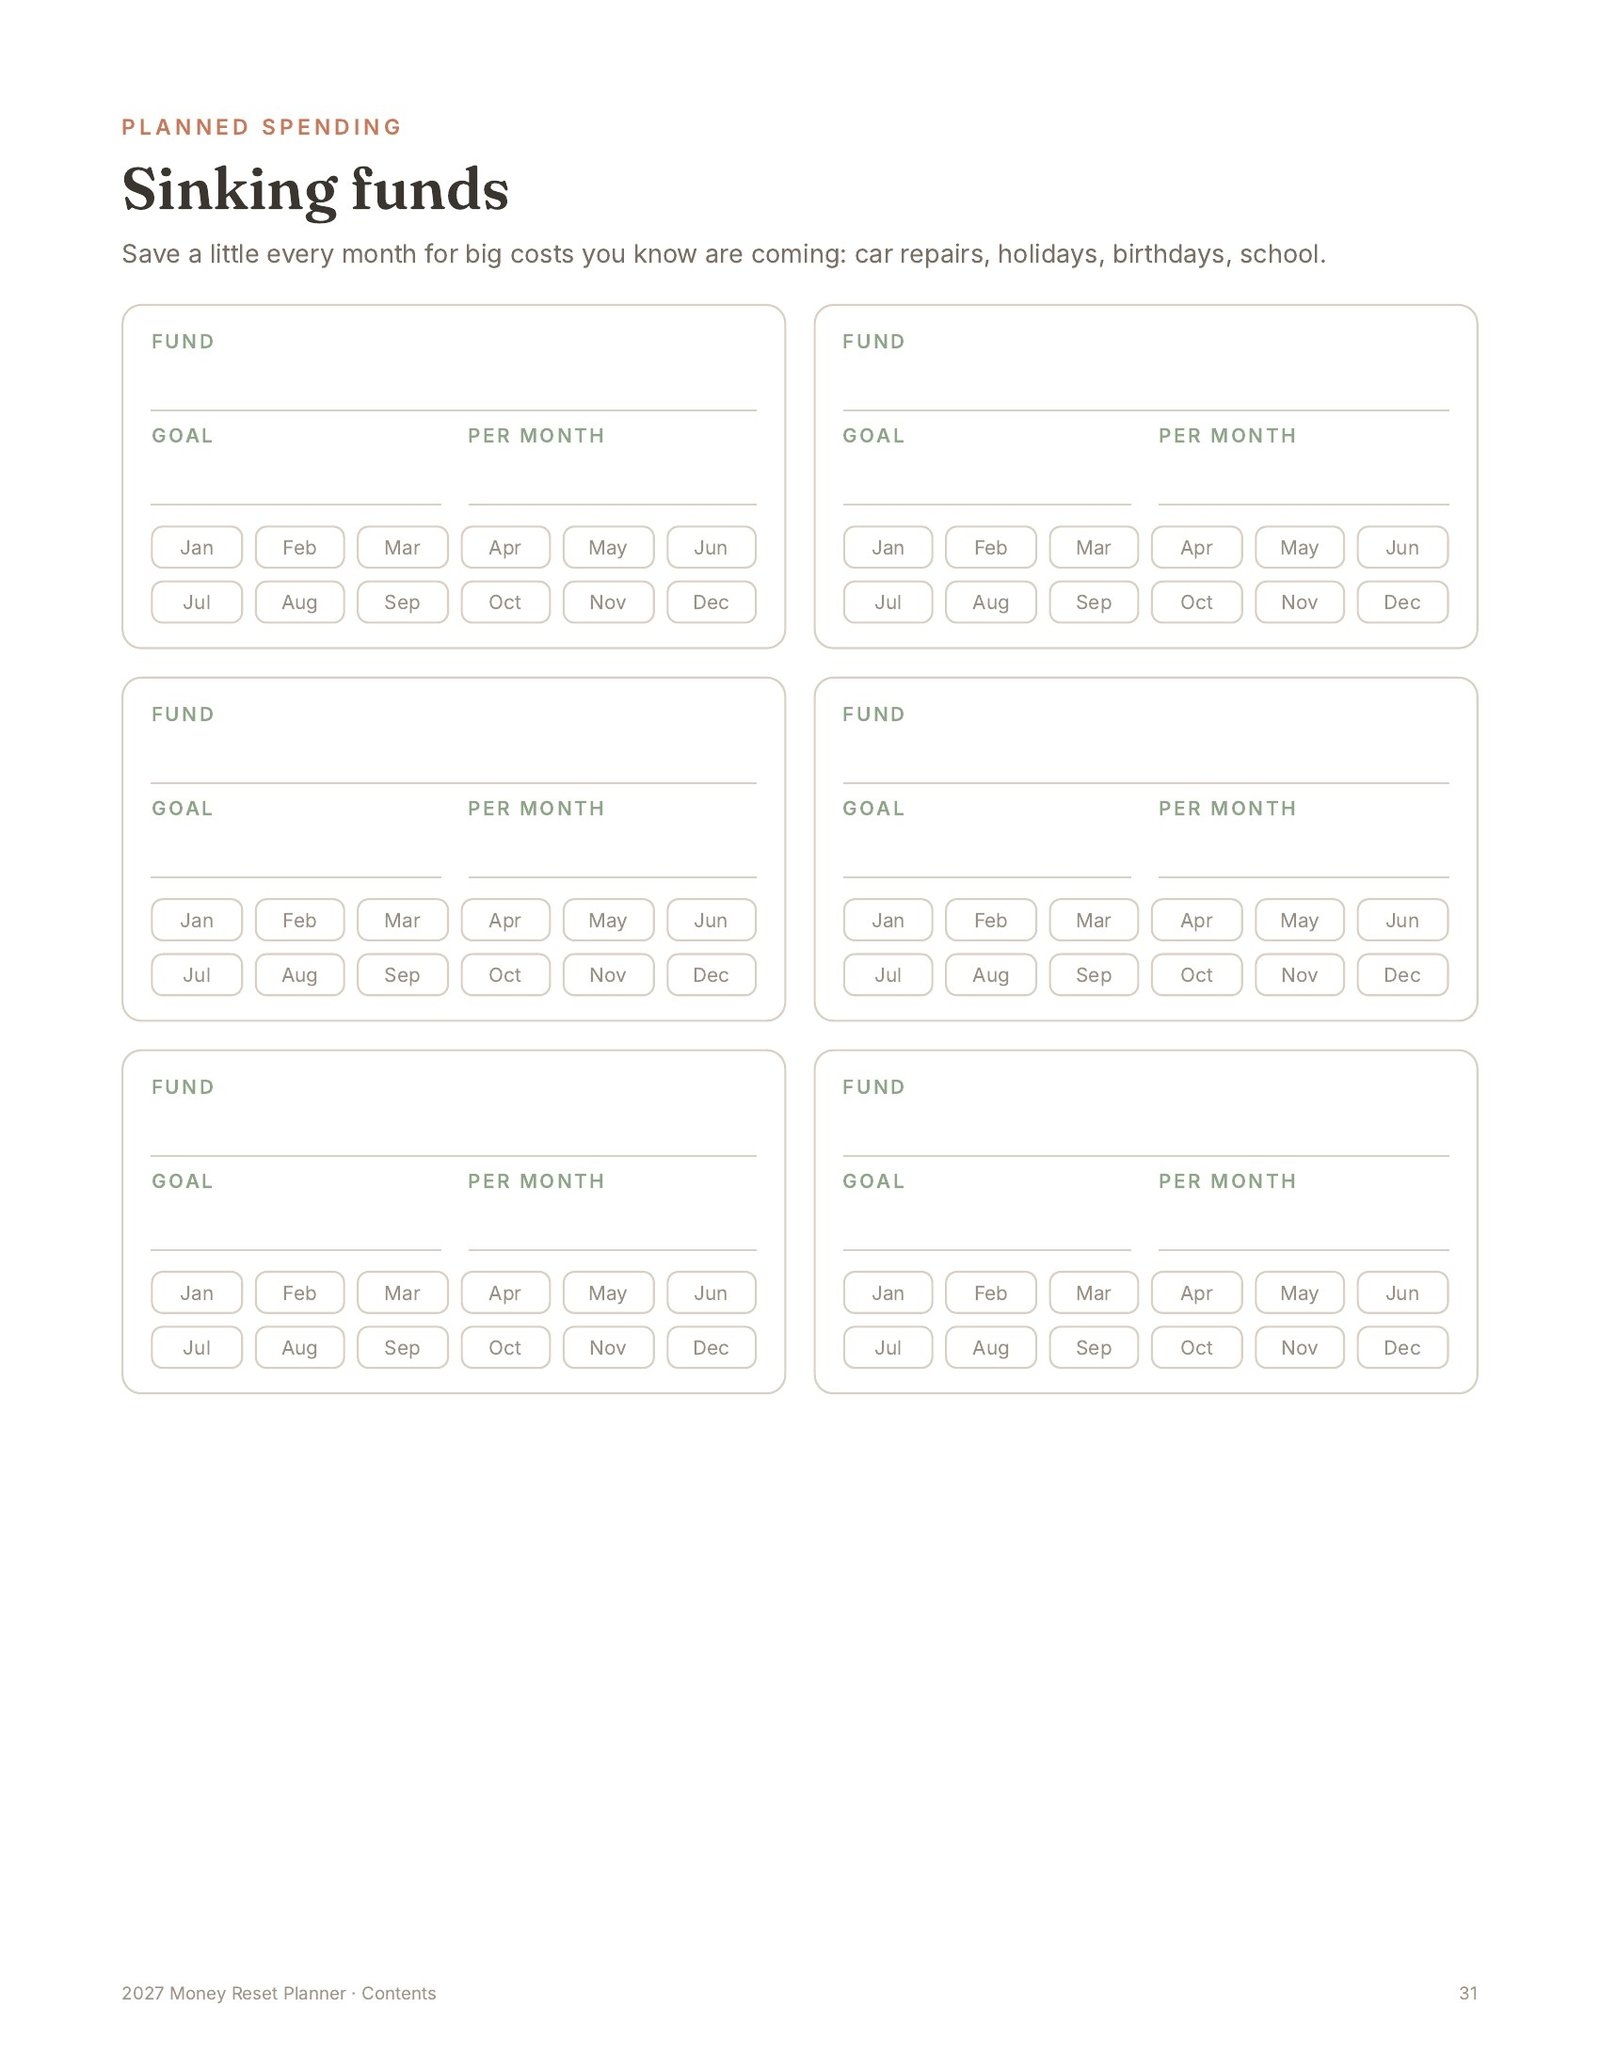
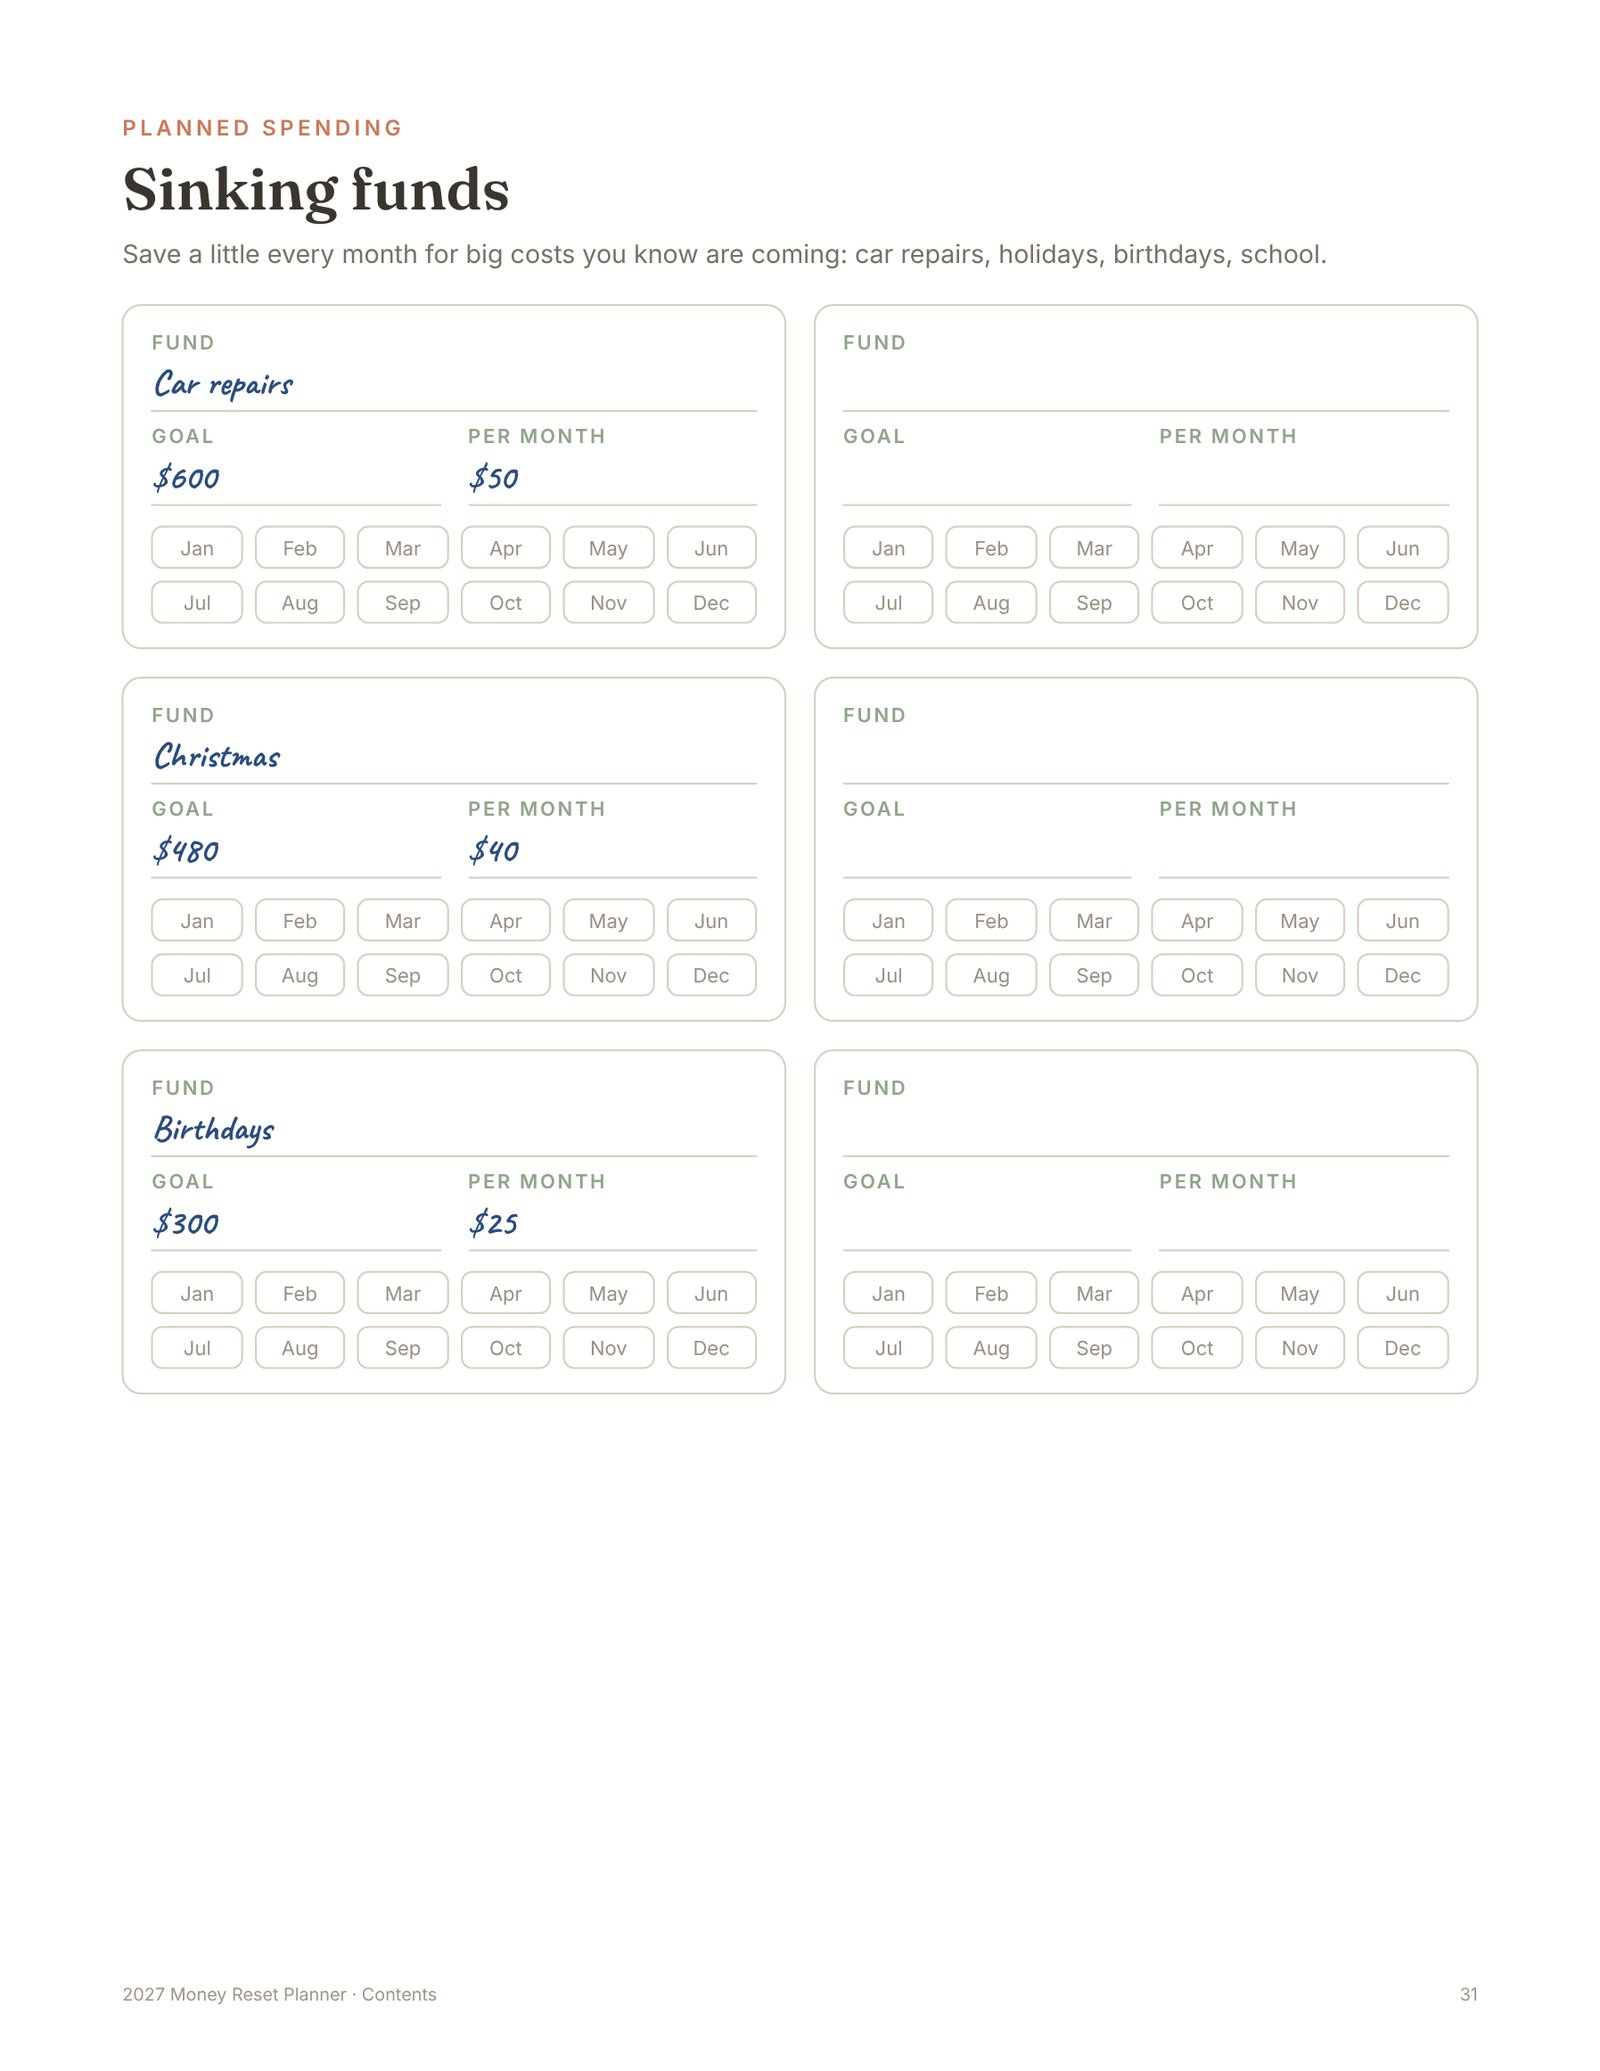
Filled-in example pages and tighter, larger hero image
Claude-Session: https://claude.ai/code/session_015ZzKmF8eJ34uQHoRWDmEqV

diff --git a/index.html b/index.html
@@ -34,7 +34,7 @@ section{padding:64px 0}
 .trust span:before{content:"✓ ";color:var(--sageD);font-weight:700}
 /* hero */
 .hero{background:var(--blush);padding:40px 0 56px}
-.hero .grid{display:grid;grid-template-columns:1fr 1.15fr;gap:32px;align-items:center}
+.hero .grid{display:grid;grid-template-columns:1fr 1.25fr;gap:40px;align-items:center}
 .hero p.lead{font-size:20px;max-width:480px}
 .badge{display:inline-block;background:#fff;color:var(--terra);font-weight:600;font-size:13px;padding:6px 12px;border-radius:999px;margin-bottom:16px}
 .brand{font-family:Fraunces,serif;font-size:20px;font-weight:600;padding:18px 0 0}
@@ -44,7 +44,7 @@ section{padding:64px 0}
 .pain .card p{margin:0;font-family:Fraunces,serif;font-size:20px}
 /* gallery */
 .gallery{display:grid;grid-template-columns:repeat(2,1fr);gap:24px;max-width:980px;margin:0 auto}
-.gallery figure{margin:0;background:#fff;border:1px solid var(--line);border-radius:14px;padding:10px}
+.gallery figure{margin:0;display:flex;flex-direction:column;background:#fff;border:1px solid var(--line);border-radius:14px;padding:10px}
 .gallery img{border-radius:6px;box-shadow:0 2px 10px rgba(0,0,0,.06)}
 .gallery a.zoom{display:block;position:relative;cursor:zoom-in}
 .zh{position:absolute;right:8px;bottom:8px;background:rgba(59,53,48,.78);color:#fff;font-size:12px;font-weight:600;padding:4px 9px;border-radius:20px}
@@ -112,7 +112,7 @@ footer a{color:var(--muted)}
         <a class="btn buy" href="#pricing">Get the planner — $17 <small class="strike">$27</small></a>
         <div class="trust"><span>Instant download</span><span>Print or use on iPad</span><span>Real human support</span></div>
       </div>
-      <div><img src="assets/hero.jpg" alt="2027 Money Reset Planner pages: cover, yearly calendar and paycheck budget" width="1400" height="1000"></div>
+      <div><img src="assets/hero-tight.jpg" alt="2027 Money Reset Planner pages: cover, yearly calendar and paycheck budget" width="1195" height="850" style="transform:scale(1.08)"></div>
     </div>
   </div>
 </header>
@@ -134,7 +134,7 @@ footer a{color:var(--muted)}
   <div class="wrap">
     <div class="kicker center">What's inside</div>
     <h2>A planner built around your paychecks</h2>
-    <p class="sub">32 pages, US Letter size. Clean, ink-friendly design. Clickable on tablets: tap a month to jump right to it.</p>
+    <p class="sub">32 pages, US Letter size. Clean, ink-friendly design. Clickable on tablets: tap a month to jump right to it. Shown here filled in with example numbers.</p>
     <div class="gallery">
       <figure><a class="zoom" href="assets/full/p-paycheck.jpg"><img src="assets/p-paycheck.jpg" alt="Paycheck budget page" loading="lazy"><span class="zh">🔍 Zoom</span></a><figcaption><b>Paycheck budget × 12</b>Plan up to 4 paychecks a month, planned vs. actual.</figcaption></figure>
       <figure><a class="zoom" href="assets/full/p-calendar.jpg"><img src="assets/p-calendar.jpg" alt="2027 calendar" loading="lazy"><span class="zh">🔍 Zoom</span></a><figcaption><b>2027 at a glance</b>Sunday-start calendar, every month clickable.</figcaption></figure>
